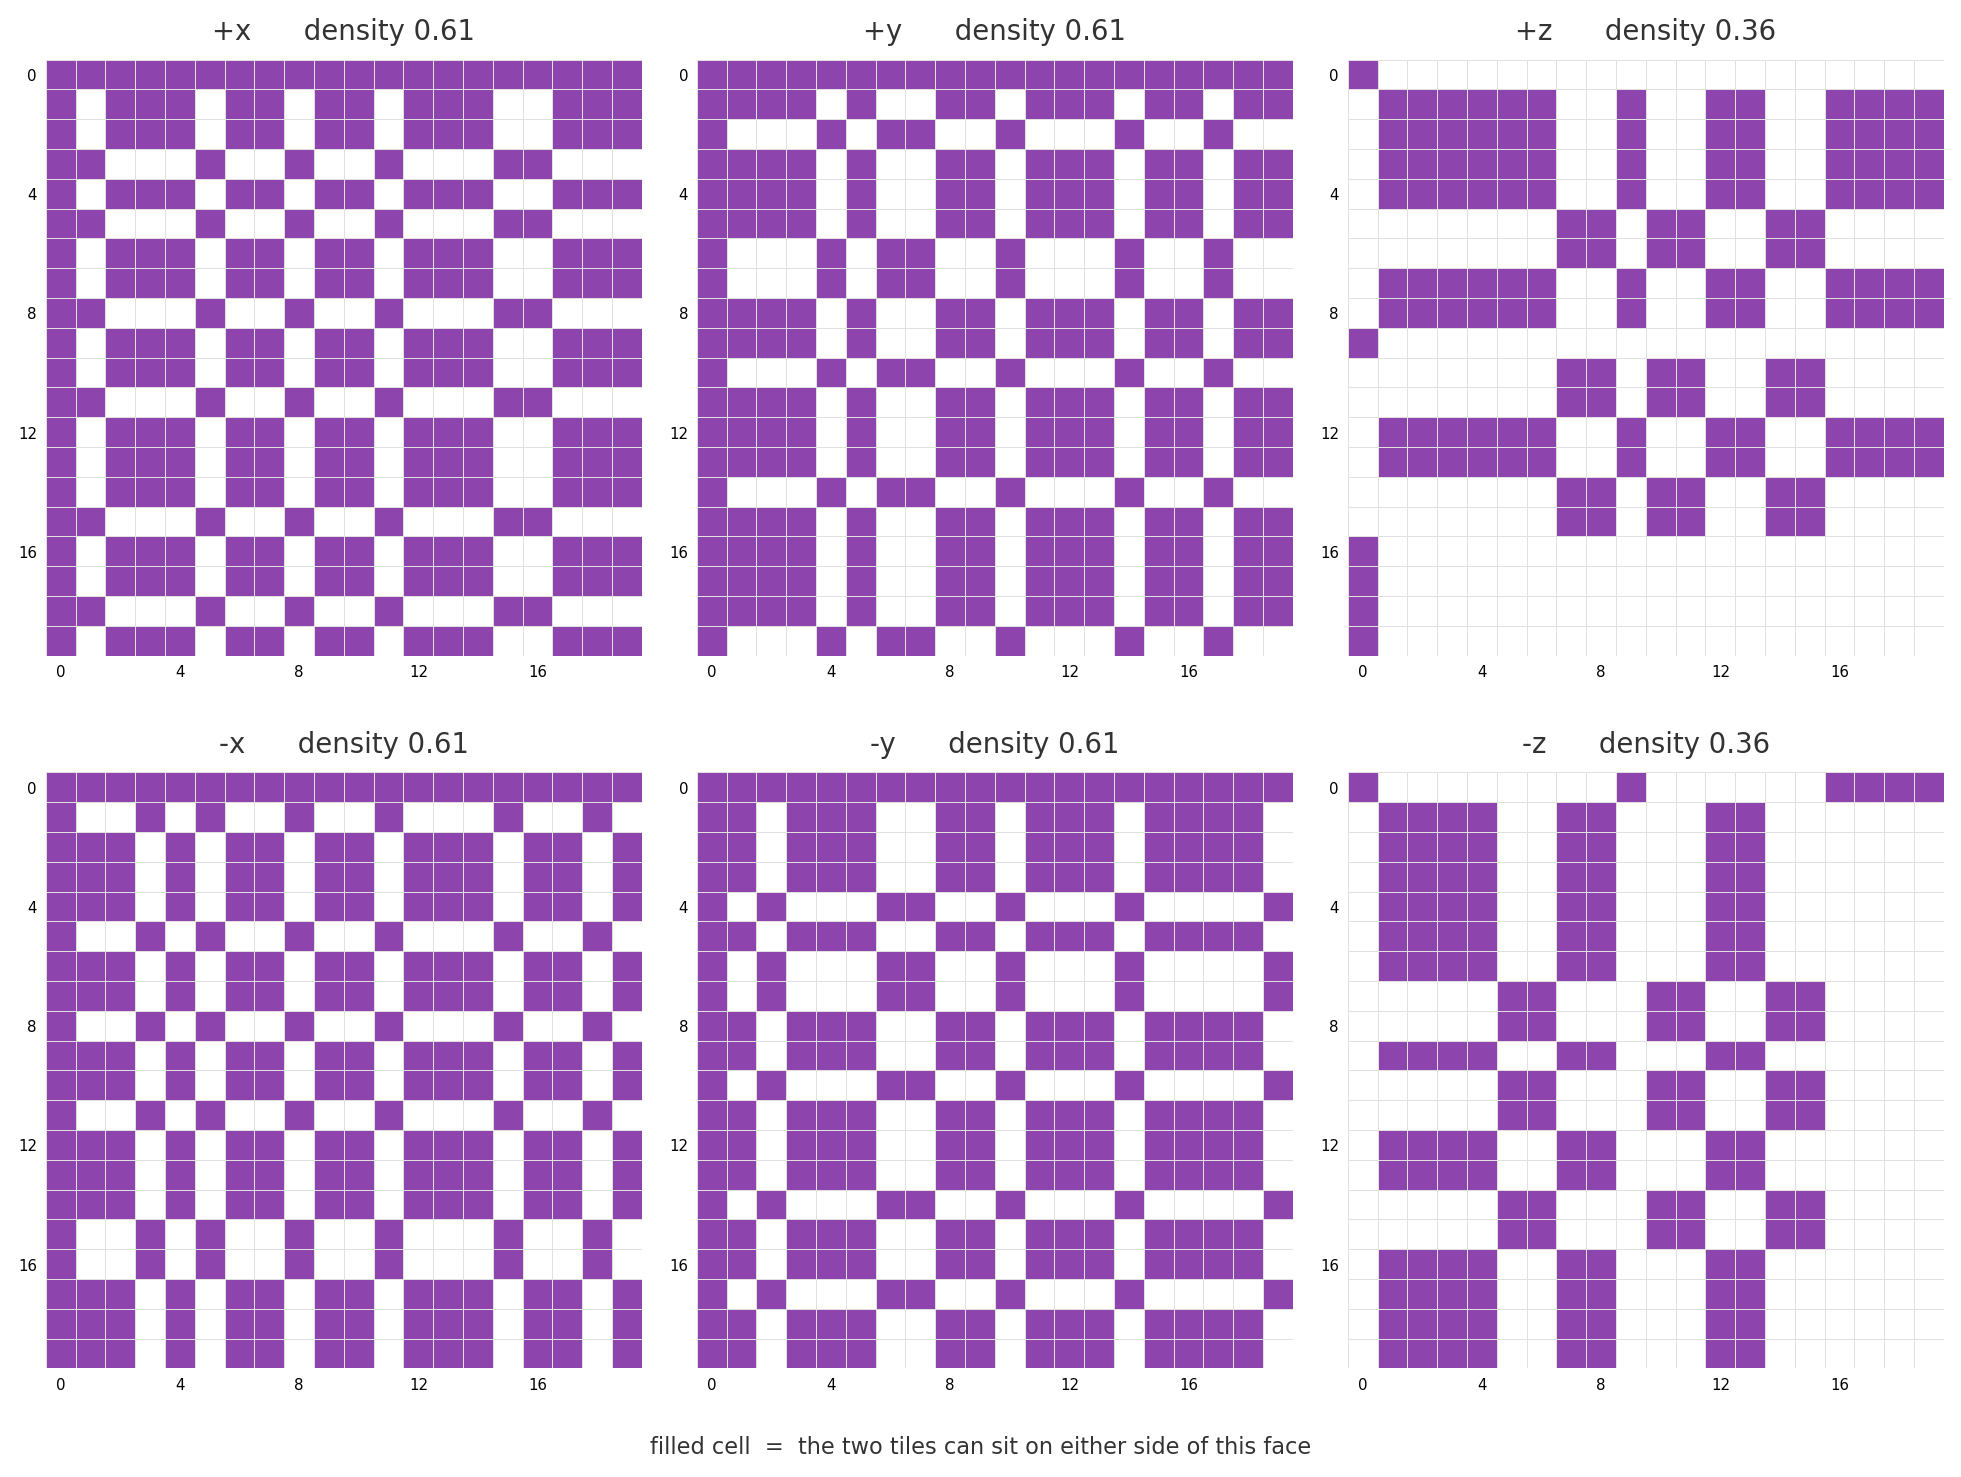
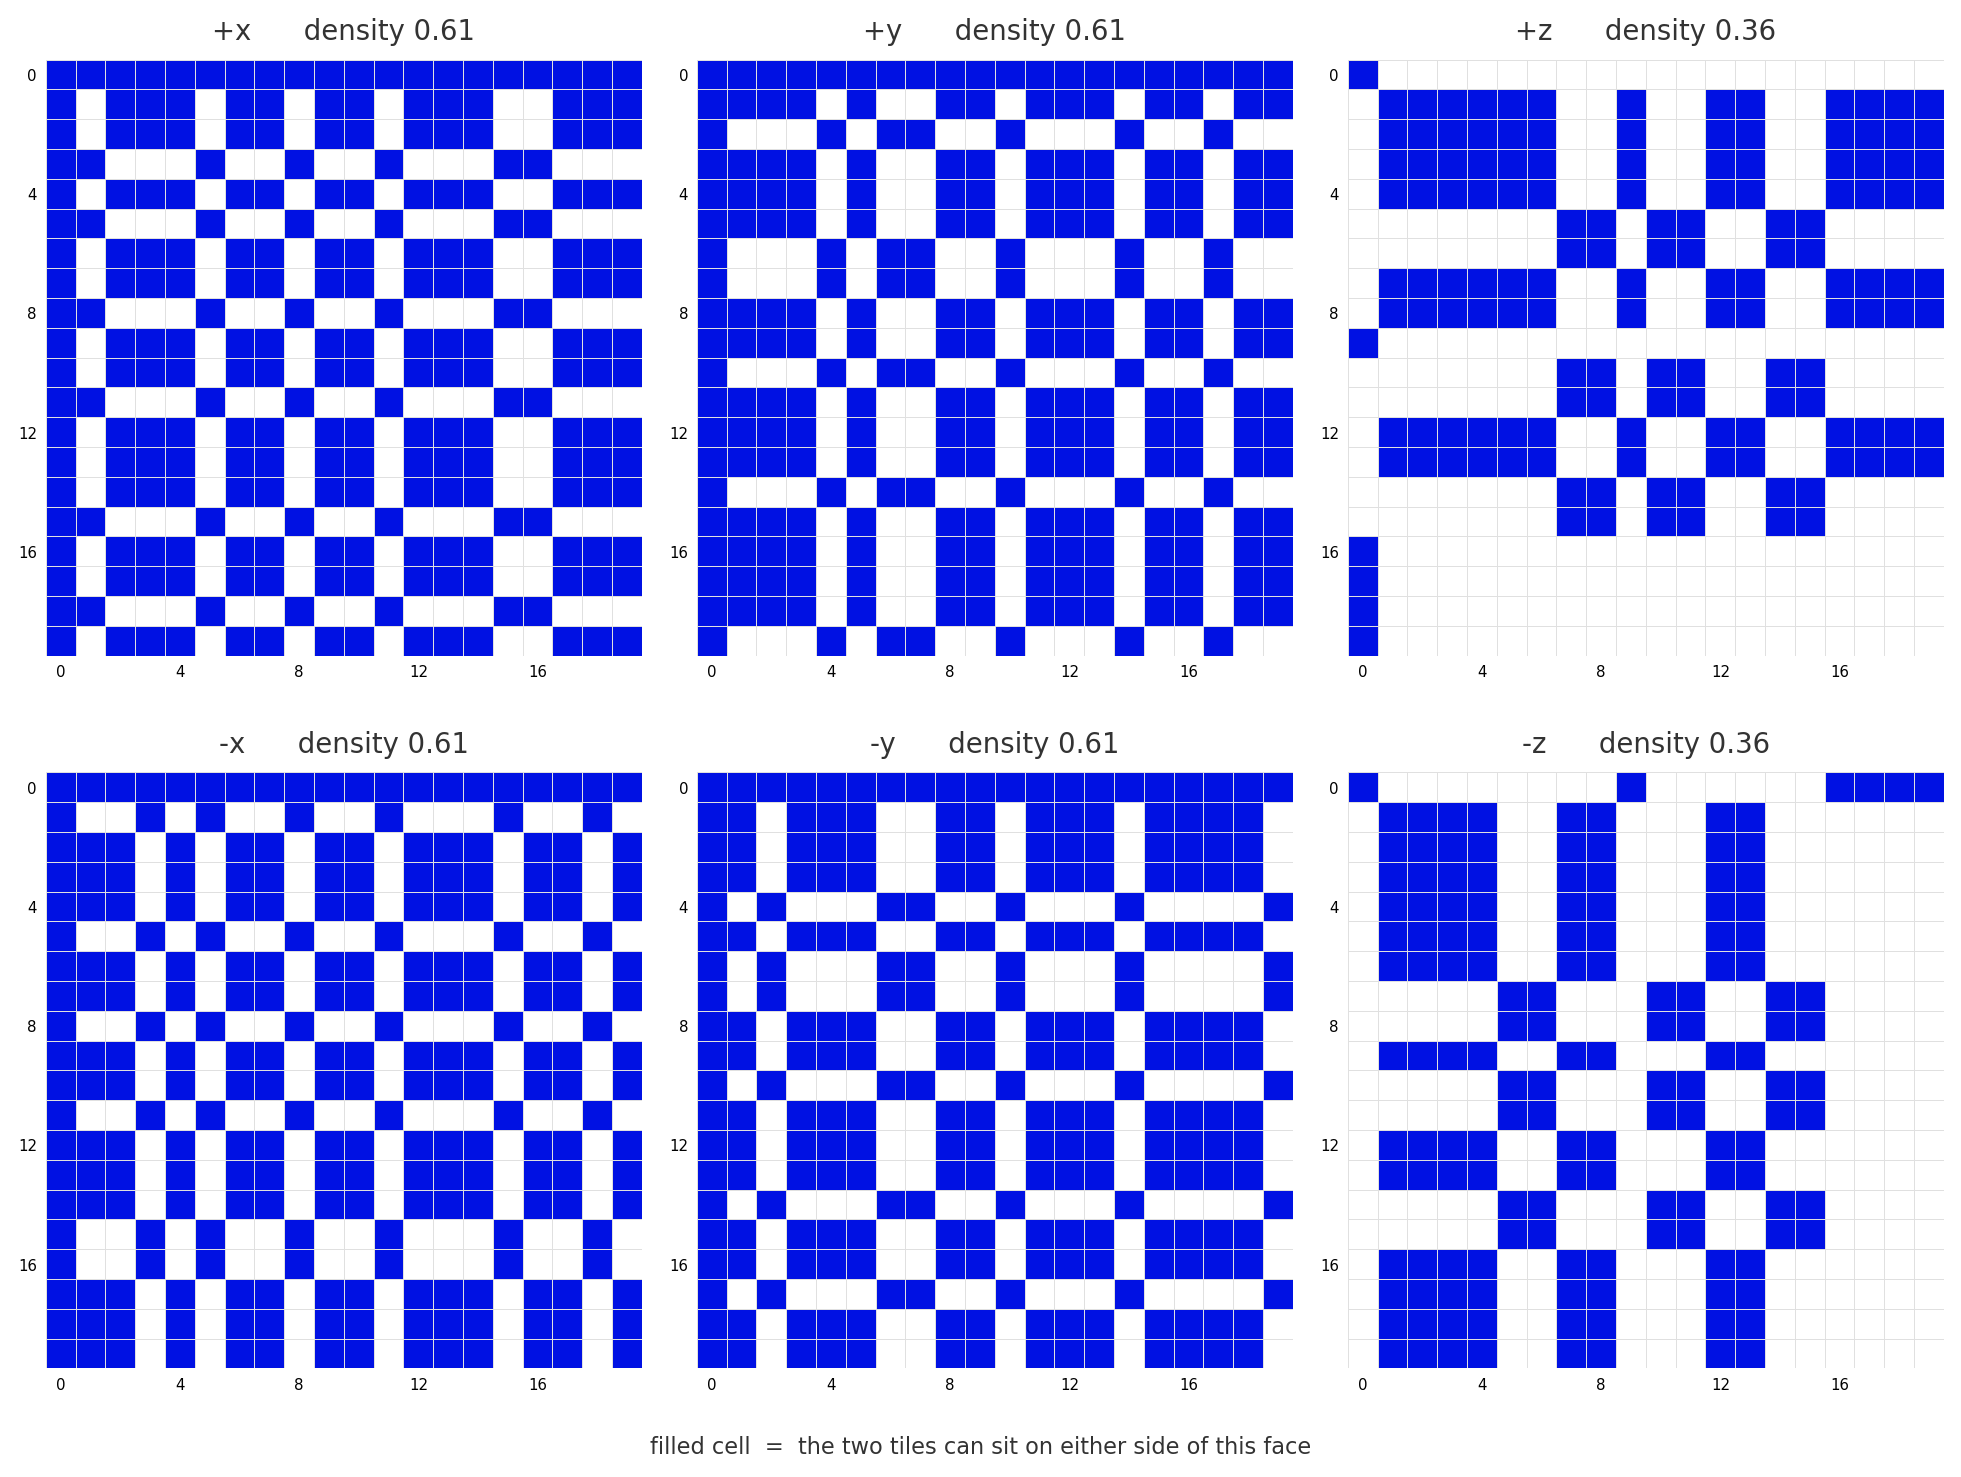
Match diagram accent to blog color, fix pseudocode underscores
- Recolor the diagram accent to the blog point color #0011e3
  ($featured-color in _sass/index.sass): states-tensor cube/mask,
  compatibility-matrix cells, flowchart decision nodes.
- states tensor: drop the zoom that clipped the 5x5x5 lattice, remove
  the W/D/H axis labels, restore the translucent cell cube.
- Redraw the run-loop flowchart with Graphviz instead of hand-placed
  matplotlib patches, so edges are auto-routed and untangled.
- Fix max_iters / cell_weights in the algorithm pseudocode: MathJax 2.7
  renders a literal backslash for \_ inside \text{}/\texttt{}; a bare
  underscore renders correctly in text mode.

diff --git a/testbed/_posts/2026-01-13-wave-function-collapse.html b/testbed/_posts/2026-01-13-wave-function-collapse.html
@@ -362,13 +362,13 @@ related:
         \hline
         \textbf{Algorithm: } \text{Wave Function Collapse 3D} \\
         \hline
-        \textbf{Input: } W, D, H, \text{ seed cell } (x_0, y_0, z_0), w_{\text{empty}}, \text{max\_iters} \\
+        \textbf{Input: } W, D, H, \text{ seed cell } (x_0, y_0, z_0), w_{\text{empty}}, \text{max_iters} \\
         \textbf{Output: } \text{collapsed grid of tiles} \\
         \hline
         \text{Precompute } \mathbf{C}_d \in \{0, 1\}^{T \times T} \text{ for each direction } d \in \{\pm x, \pm y, \pm z\} \\
         \texttt{states}[z, y, x, t] \leftarrow 1 \quad \forall (x, y, z, t) \\
         \texttt{cell} \leftarrow (x_0, y_0, z_0) \\
-        \textbf{for } i = 1 \ldots \text{max\_iters} \textbf{ do} \\
+        \textbf{for } i = 1 \ldots \text{max_iters} \textbf{ do} \\
         \quad \textbf{if all cells collapsed: break} \\
         \quad \textbf{if not Collapse}(\texttt{cell}) \textbf{ then } \text{Reset}; \texttt{cell} \leftarrow (x_0, y_0, z_0); \textbf{ continue} \\
         \quad \texttt{cell} \leftarrow \text{GetMinKCell}() \\
@@ -376,7 +376,7 @@ related:
         \quad \textbf{if } \texttt{cell} = \text{None} \textbf{ then break} \\
         \hline
         \texttt{Collapse}(x, y, z): \\
-        \quad t \sim \text{Multinomial}\big(\texttt{states}[z, y, x] \cdot \texttt{cell\_weights}\big) \\
+        \quad t \sim \text{Multinomial}\big(\texttt{states}[z, y, x] \cdot \texttt{cell_weights}\big) \\
         \quad \texttt{states}[z, y, x] \leftarrow \mathbf{e}_t \\
         \quad \textbf{return Propagate}(x, y, z) \\
         \hline